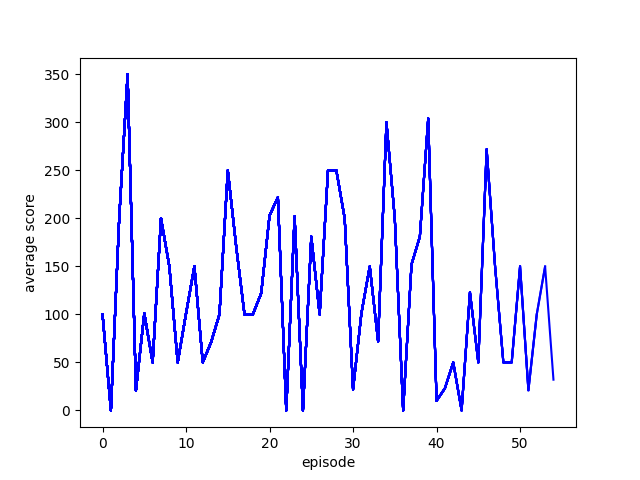
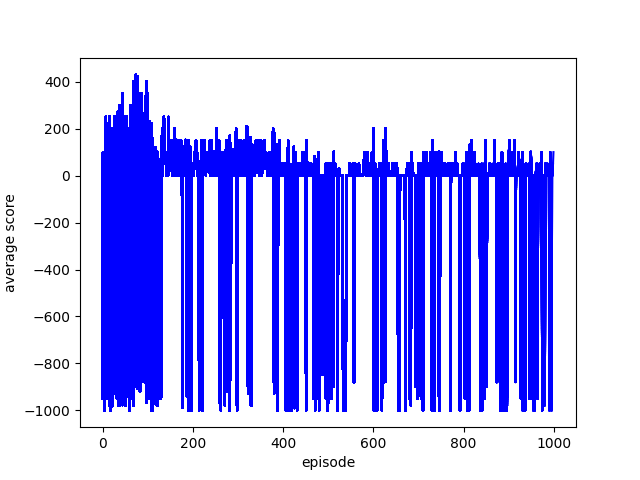
123

diff --git a/b.py b/b.py
@@ -15,9 +15,9 @@ import matplotlib.pyplot as plt
 class DQN(tf.keras.Model):
     def __init__(self, action_size):
         super(DQN, self).__init__()
-        self.fc1 = Dense(256, activation='relu')
-        self.fc2 = Dense(128, activation='relu')
-        self.fc3 = Dense(64, activation='relu')
+        self.fc1 = Dense(128, activation='relu')
+        self.fc2 = Dense(64, activation='relu')
+        self.fc3 = Dense(32, activation='relu')
         self.fc_out = Dense(action_size, kernel_initializer=RandomUniform(-1e-3, 1e-3))
 
     def call(self, x):
@@ -39,13 +39,13 @@ class DQNAgent:
         self.discount_factor = 0.99
         self.learning_rate = 0.001
         self.epsilon = 1.0
-        self.epsilon_decay = 0.99999
+        self.epsilon_decay = 0.99995
         self.epsilon_min = 0.1
-        self.batch_size = 128
-        self.train_start = 2000
+        self.batch_size = 512
+        self.train_start = 1000
 
         # 리플레이 메모리, 최대 크기 2000
-        self.memory = deque(maxlen=4000)
+        self.memory = deque(maxlen=10000)
 
         # 모델과 타깃 모델 생성
         self.model = DQN(action_size)
@@ -118,7 +118,7 @@ if __name__ == "__main__":
     scores, episodes = [], []
     score = 0
 
-    num_episode = 10000
+    num_episode = 1000
     for episode in range(num_episode):
         done = True
         score = 0

diff --git a/a.py b/a.py
@@ -67,7 +67,7 @@ class SmartCityEnvironment():
         
         # 행복도 20미만 조기종료
         if self.happiness < 20:
-            return self.get_state(), 0, False, {}
+            return self.get_state(), -1000, False, {}
         
         self.step_count += 1
         reward = 0
@@ -78,7 +78,7 @@ class SmartCityEnvironment():
 
         # 수입 및 유지비용 계산
         income = self.num_residential_areas * 300 + self.num_commercial_areas * 300 + self.num_industrial_areas * 550
-        maintenance = self.num_hospitals * 250 + self.num_parks * 150
+        maintenance = self.num_hospitals * 250 + self.num_parks * 500
         self.capital += (income - maintenance)
 
         # 액션을 이동 방향과 건물 유형으로 변환
@@ -217,9 +217,9 @@ class SmartCityEnvironment():
         # 주거공간 / 병원 수에 따른 행복도 조정
         if self.num_hospitals > 0:
             if (self.num_residential_areas // self.num_hospitals) < 5:
-                happiness_change -= 1
+                happiness_change -= 2
             else:
-                happiness_change += 1
+                happiness_change += 2
         else:
             pass
     
